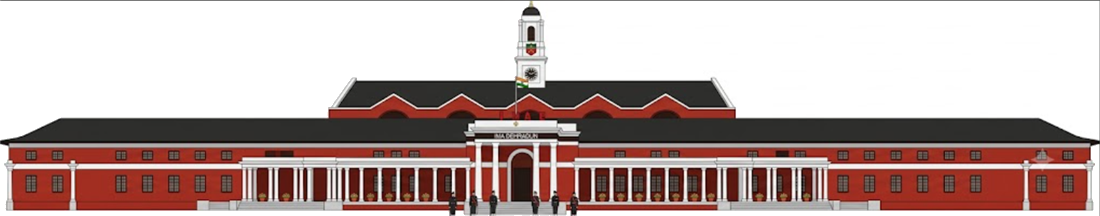
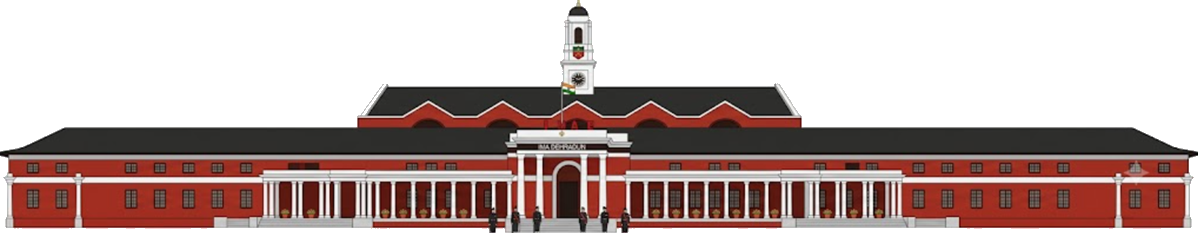
Chatbot: remove blue header, stand trimmed transparent IMA building on top of cream card, floating close. chat v=6/css v=4

diff --git a/assets/chat.css b/assets/chat.css
@@ -16,21 +16,26 @@
 #vt-launch .vt-l-txt{white-space:nowrap}
 #vt-launch.vt-hidden{display:none}
 
-/* panel */
+/* panel: transparent shell so only the building + cream card show */
 #vt-panel{position:fixed;right:20px;bottom:20px;z-index:9999;width:384px;max-width:calc(100vw - 32px);
-  height:600px;max-height:calc(100vh - 40px);display:flex;flex-direction:column;overflow:hidden;
-  background:var(--vt-paper);border:1px solid var(--vt-line);border-radius:18px;
-  box-shadow:0 24px 60px rgba(16,35,63,.34);font-family:inherit;color:var(--vt-ink)}
+  height:600px;max-height:calc(100vh - 40px);display:flex;flex-direction:column;overflow:visible;
+  background:transparent;border:none;box-shadow:none;font-family:inherit;color:var(--vt-ink)}
 #vt-panel[hidden]{display:none}
 
-/* header */
-.vt-head{position:relative;padding:9px 12px;
-  background:linear-gradient(135deg,var(--vt-navy),var(--vt-navy2));color:#fff}
-.vt-head-banner{display:block;width:100%;height:auto;max-height:82px;object-fit:contain}
-.vt-close{position:absolute;top:6px;right:8px;background:rgba(0,0,0,.18);border:none;color:rgba(255,255,255,.85);
-  font-size:1.35rem;line-height:1;cursor:pointer;padding:1px 8px;border-radius:8px}
-.vt-close:hover{background:rgba(0,0,0,.34);color:#fff}
-.vt-close:hover{background:rgba(255,255,255,.12);color:#fff}
+/* IMA building standing on top of the box (transparent around it) */
+.vt-topimg{display:block;width:100%;height:auto;margin:0 0 -2px;flex:0 0 auto;pointer-events:none;
+  filter:drop-shadow(0 5px 7px rgba(16,35,63,.22))}
+
+/* the cream card holds the conversation */
+.vt-card{position:relative;flex:1 1 auto;min-height:0;display:flex;flex-direction:column;overflow:hidden;
+  background:var(--vt-paper);border:1px solid var(--vt-line);border-radius:16px;
+  box-shadow:0 24px 60px rgba(16,35,63,.34)}
+
+/* floating close button, top-right over the transparent sky */
+.vt-close{position:absolute;top:0;right:0;z-index:4;width:30px;height:30px;border:none;border-radius:50%;
+  background:var(--vt-navy);color:#fff;font-size:1.15rem;line-height:1;cursor:pointer;
+  box-shadow:0 3px 8px rgba(16,35,63,.45)}
+.vt-close:hover{background:var(--vt-navy2);color:#fff}
 
 /* messages */
 .vt-msgs{flex:1;overflow-y:auto;padding:16px 14px 6px;display:flex;flex-direction:column;gap:11px;

diff --git a/assets/chat.js b/assets/chat.js
@@ -42,10 +42,9 @@
 
   var panel = el("div", { id: "vt-panel", role: "dialog", "aria-label": "VicThree Defence mentor chat", hidden: "" });
   panel.innerHTML =
-    '<div class="vt-head">' +
-      '<img class="vt-head-banner" src="assets/ima-building.png?v=1" alt="Indian Military Academy, Dehradun">' +
-      '<button class="vt-close" aria-label="Close chat">&times;</button>' +
-    '</div>' +
+    '<button class="vt-close" aria-label="Close chat">&times;</button>' +
+    '<img class="vt-topimg" src="assets/ima-building.png?v=2" alt="Indian Military Academy, Dehradun">' +
+    '<div class="vt-card">' +
     '<div class="vt-msgs" id="vt-msgs" aria-live="polite"></div>' +
     '<div class="vt-chips" id="vt-chips"></div>' +
     '<form class="vt-input" id="vt-form">' +
@@ -69,6 +68,7 @@
         '</div>' +
         '<p class="vt-lead-note" hidden>Thank you. The team will reach out shortly.</p>' +
       '</div>' +
+    '</div>' +
     '</div>';
 
   document.body.appendChild(launch);

diff --git a/course.html b/course.html
@@ -9,7 +9,7 @@
 <link rel="apple-touch-icon" href="assets/shield-180.png?v=4">
 <meta name="theme-color" content="#0f2340">
 <link rel="stylesheet" href="assets/styles.css?v=44">
-<link rel="stylesheet" href="assets/chat.css?v=3">
+<link rel="stylesheet" href="assets/chat.css?v=4">
 </head>
 <body>
 
@@ -187,6 +187,6 @@
 </footer>
 
 <script src="assets/main.js?v=6"></script>
-<script src="assets/chat.js?v=5" defer></script>
+<script src="assets/chat.js?v=6" defer></script>
 </body>
 </html>

diff --git a/index.html b/index.html
@@ -9,7 +9,7 @@
 <link rel="apple-touch-icon" href="assets/shield-180.png?v=4">
 <meta name="theme-color" content="#0f2340">
 <link rel="stylesheet" href="assets/styles.css?v=50">
-<link rel="stylesheet" href="assets/chat.css?v=3">
+<link rel="stylesheet" href="assets/chat.css?v=4">
 </head>
 <body>
 
@@ -546,6 +546,6 @@
 </footer>
 
 <script src="assets/main.js?v=6"></script>
-<script src="assets/chat.js?v=5" defer></script>
+<script src="assets/chat.js?v=6" defer></script>
 </body>
 </html>
